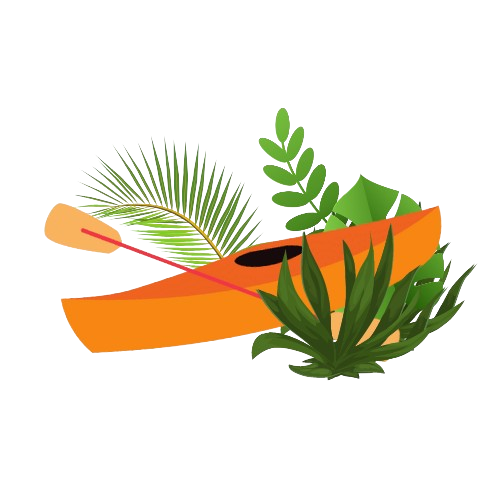
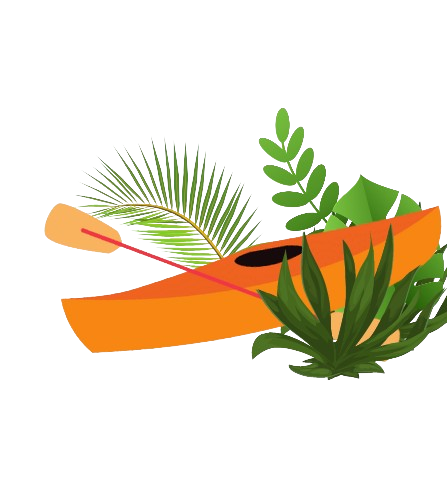
Ajustes, y se añade sesión de comentarios y experiencias

Changed region(s): [[0.0872, 0.21, 1.0, 0.78], [0.1163, 0.6, 0.2036, 0.72], [0.2327, 0.69, 0.3781, 0.72]]

diff --git a/src/components/PlanesDestacados.jsx b/src/components/PlanesDestacados.jsx
@@ -22,8 +22,8 @@ export default function PlanesDestacados() {
 
     return (
         <div className="relative">
-            <div className="absolute -top-20 -right-2 -z-10">
-                <img src="/fondo2.png" alt="Fondo" className="w-80 h-80 object-cover" />
+            <div className="absolute -top-16 md:-top-24 right-0 -z-10">
+                <img src="/fondo2.png" alt="Fondo" className="w-60 h-60 md:w-80 md:h-80 object-cover" />
             </div>
 
             <h2 className="text-xl font-semibold text-zinc-800 mb-4 max-w-screen-lg mx-auto px-5 md:px-0">
@@ -44,7 +44,7 @@ export default function PlanesDestacados() {
             </div>
             
             <div className="absolute -bottom-40 left-0 -z-10">
-                <img src="/fondo1.png" alt="Fondo" className="w-80 h-80 object-cover" /> 
+                <img src="/fondo1.png" alt="Fondo" className="w-60 h-60 md:w-80 md:h-80 object-cover" /> 
             </div>
         </div>
     );
